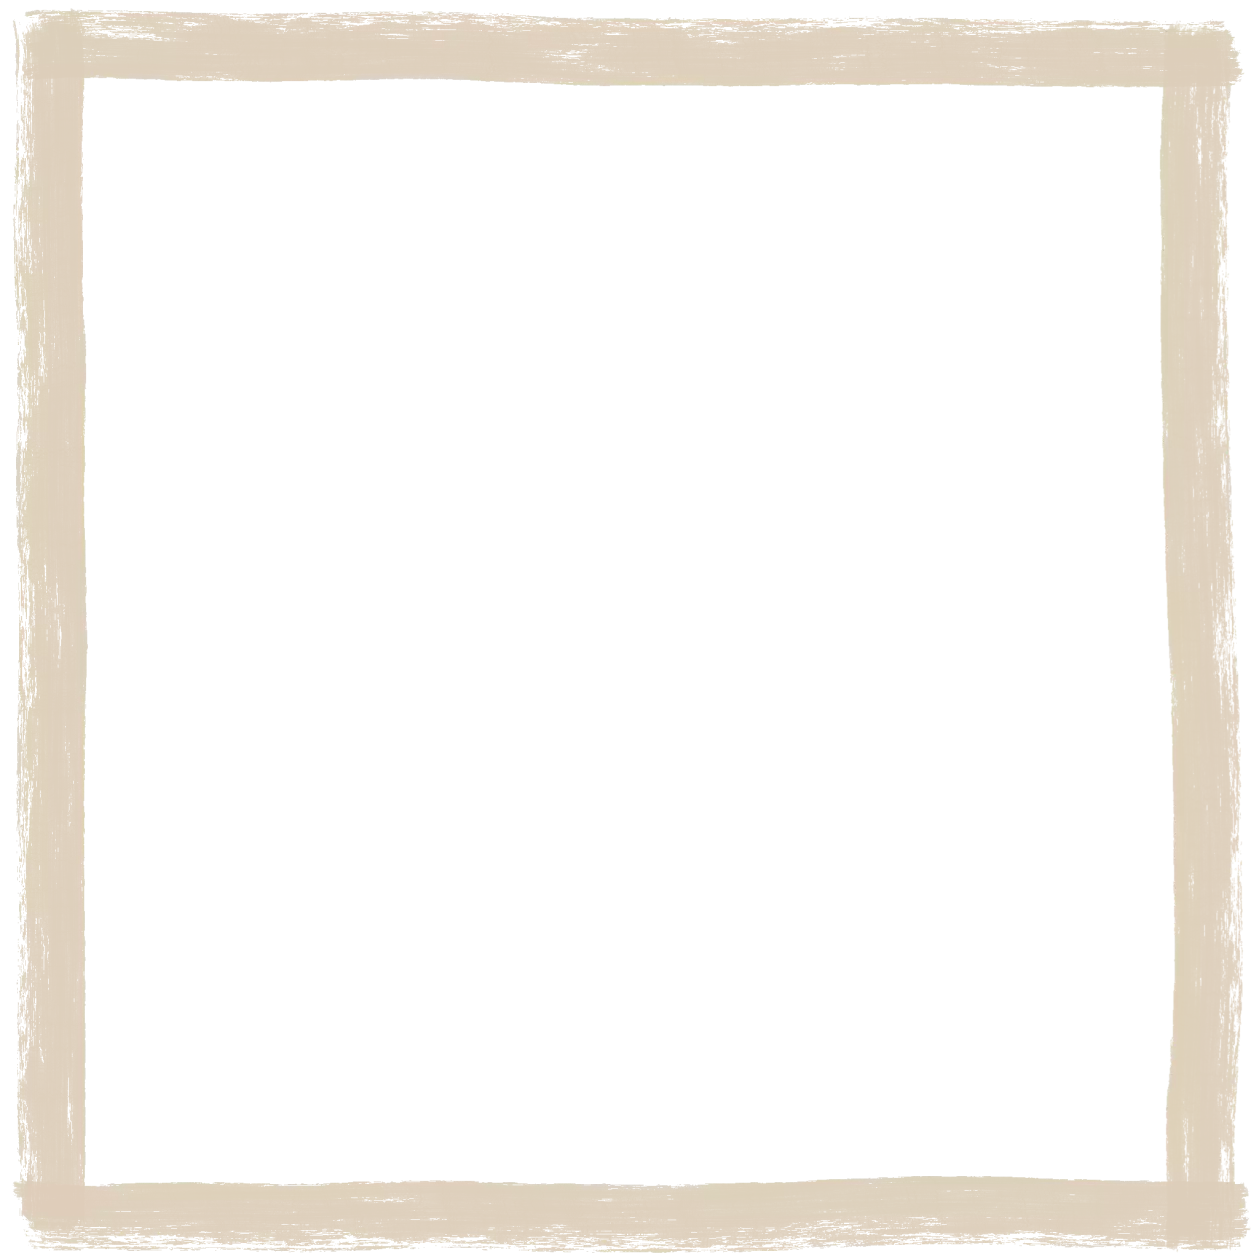
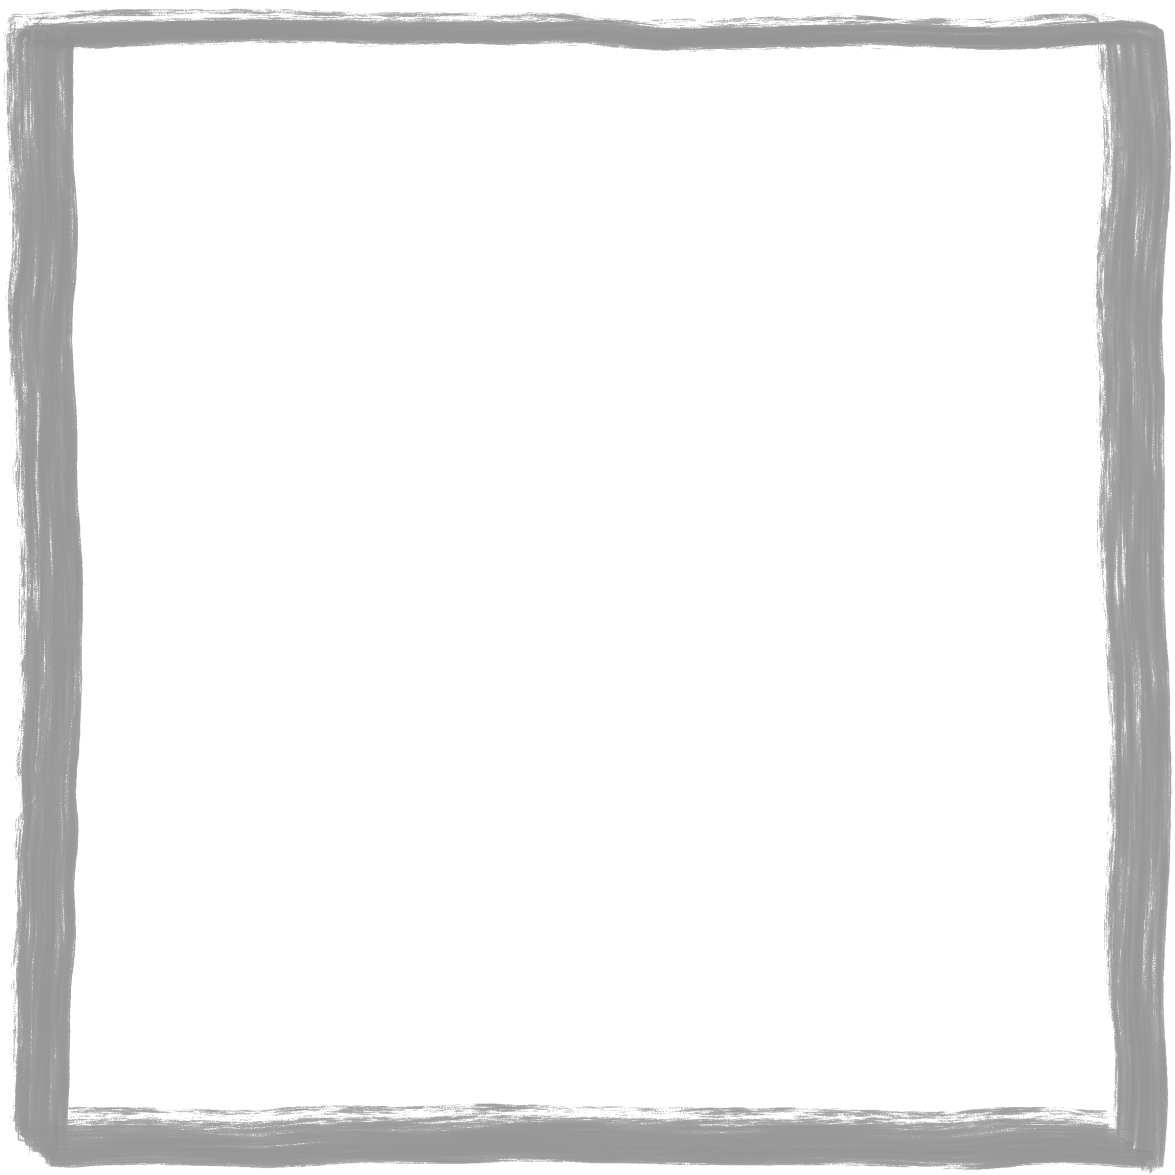
STYLE: 🎨 global 색상 변경

Changed region(s): [[0.0, 0.0, 1.0, 1.0]]

diff --git a/frontend/godlife/src/components/common/theme.ts b/frontend/godlife/src/components/common/theme.ts
@@ -9,13 +9,13 @@ export const theme = createTheme({
   palette: {
     mode: "light",
     background: {
-      default: "rgba(220, 207, 185, 0.3)",
+      default: "rgb(252, 252, 252)",
     },
     primary: {
-      main: "#BB9B72",
+      main: "#A11803",
     },
     secondary: {
-      main: "#DCCFB9",
+      main: "#939393",
     },
     info: {
       main: "#5C79BA",

diff --git a/frontend/godlife/src/components/bars/Footer.tsx b/frontend/godlife/src/components/bars/Footer.tsx
@@ -10,7 +10,7 @@ const Footer = () => {
   return (
     <Container>
       <FooterWrapper>
-        <Stack sx={{ fontSize: "14px", color: "#BB9B72" }}>
+        <Stack sx={{ fontSize: "14px" }}>
           <img
             src={WallImage}
             alt="wall"

diff --git a/frontend/godlife/src/index.css b/frontend/godlife/src/index.css
@@ -26,7 +26,6 @@ body {
   margin: 0 auto !important;
   overflow: overlay;
   background-image: url("https://www.transparenttextures.com/patterns/beige-paper.png");
-  background-color: rgba(220, 207, 185, 0.3);
 }
 
 code {

diff --git a/frontend/godlife/src/components/common/Button.ts b/frontend/godlife/src/components/common/Button.ts
@@ -44,6 +44,7 @@ const BlackButton = styled(Button)({
 });
 
 const TextButton = styled(Button)({
+  color: "#939393",
   "&:hover": {
     color: "#000000",
     backgroundColor: "transparent",
